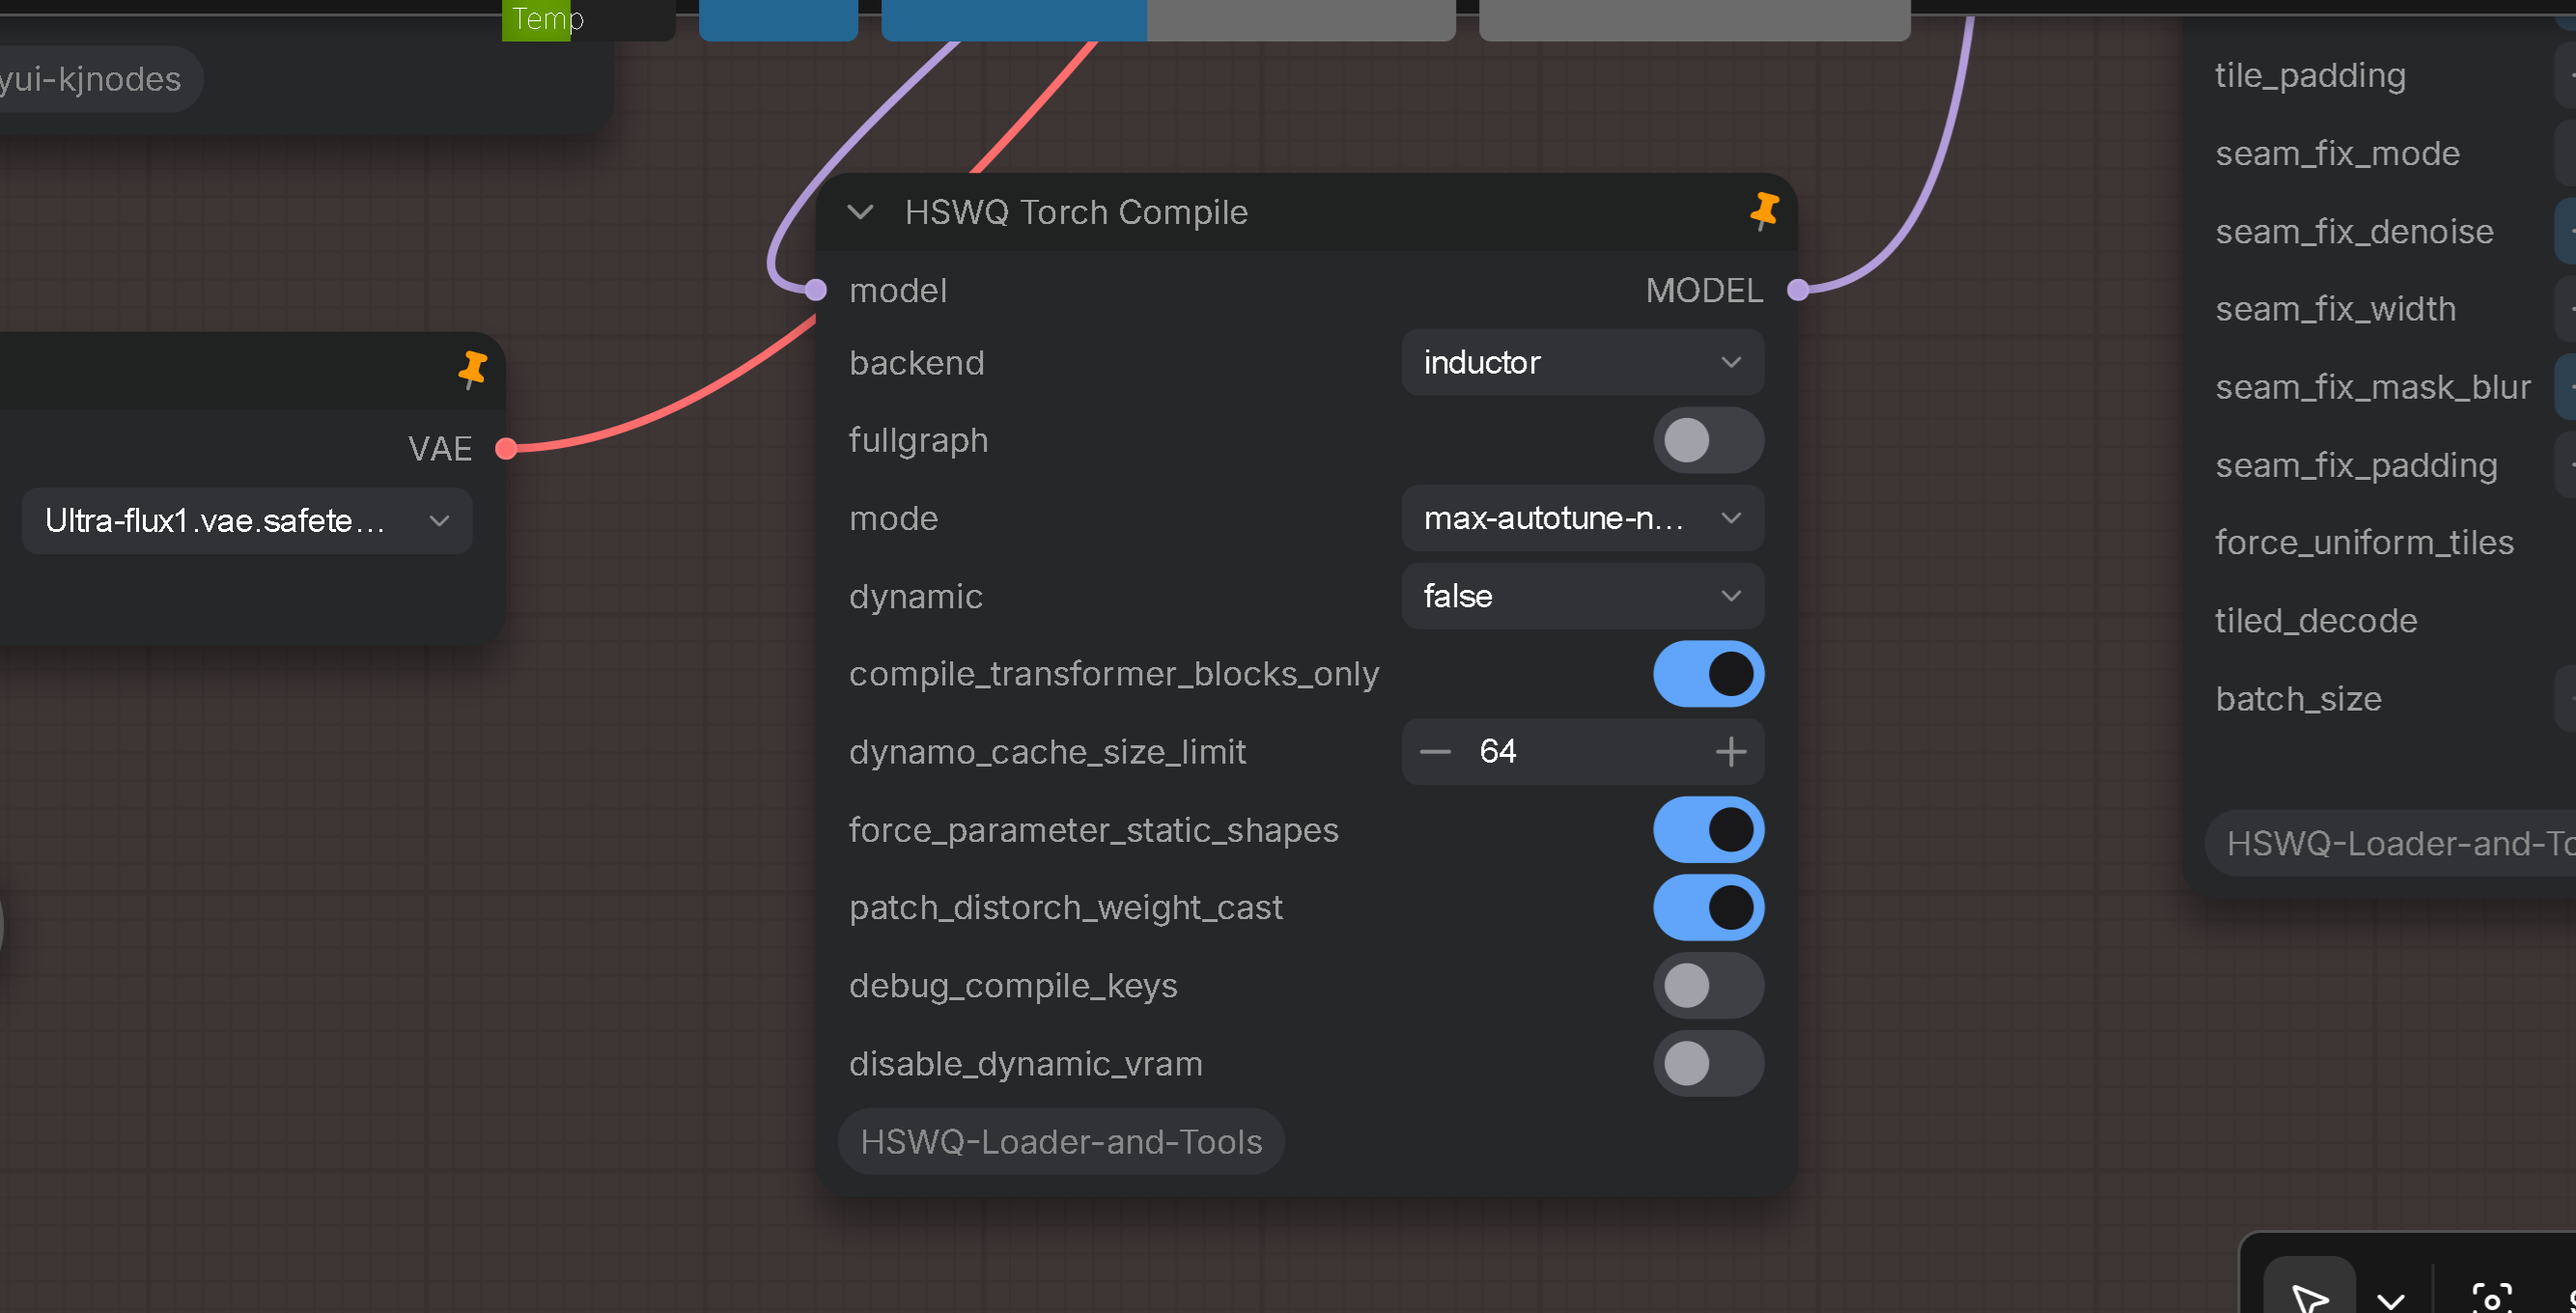
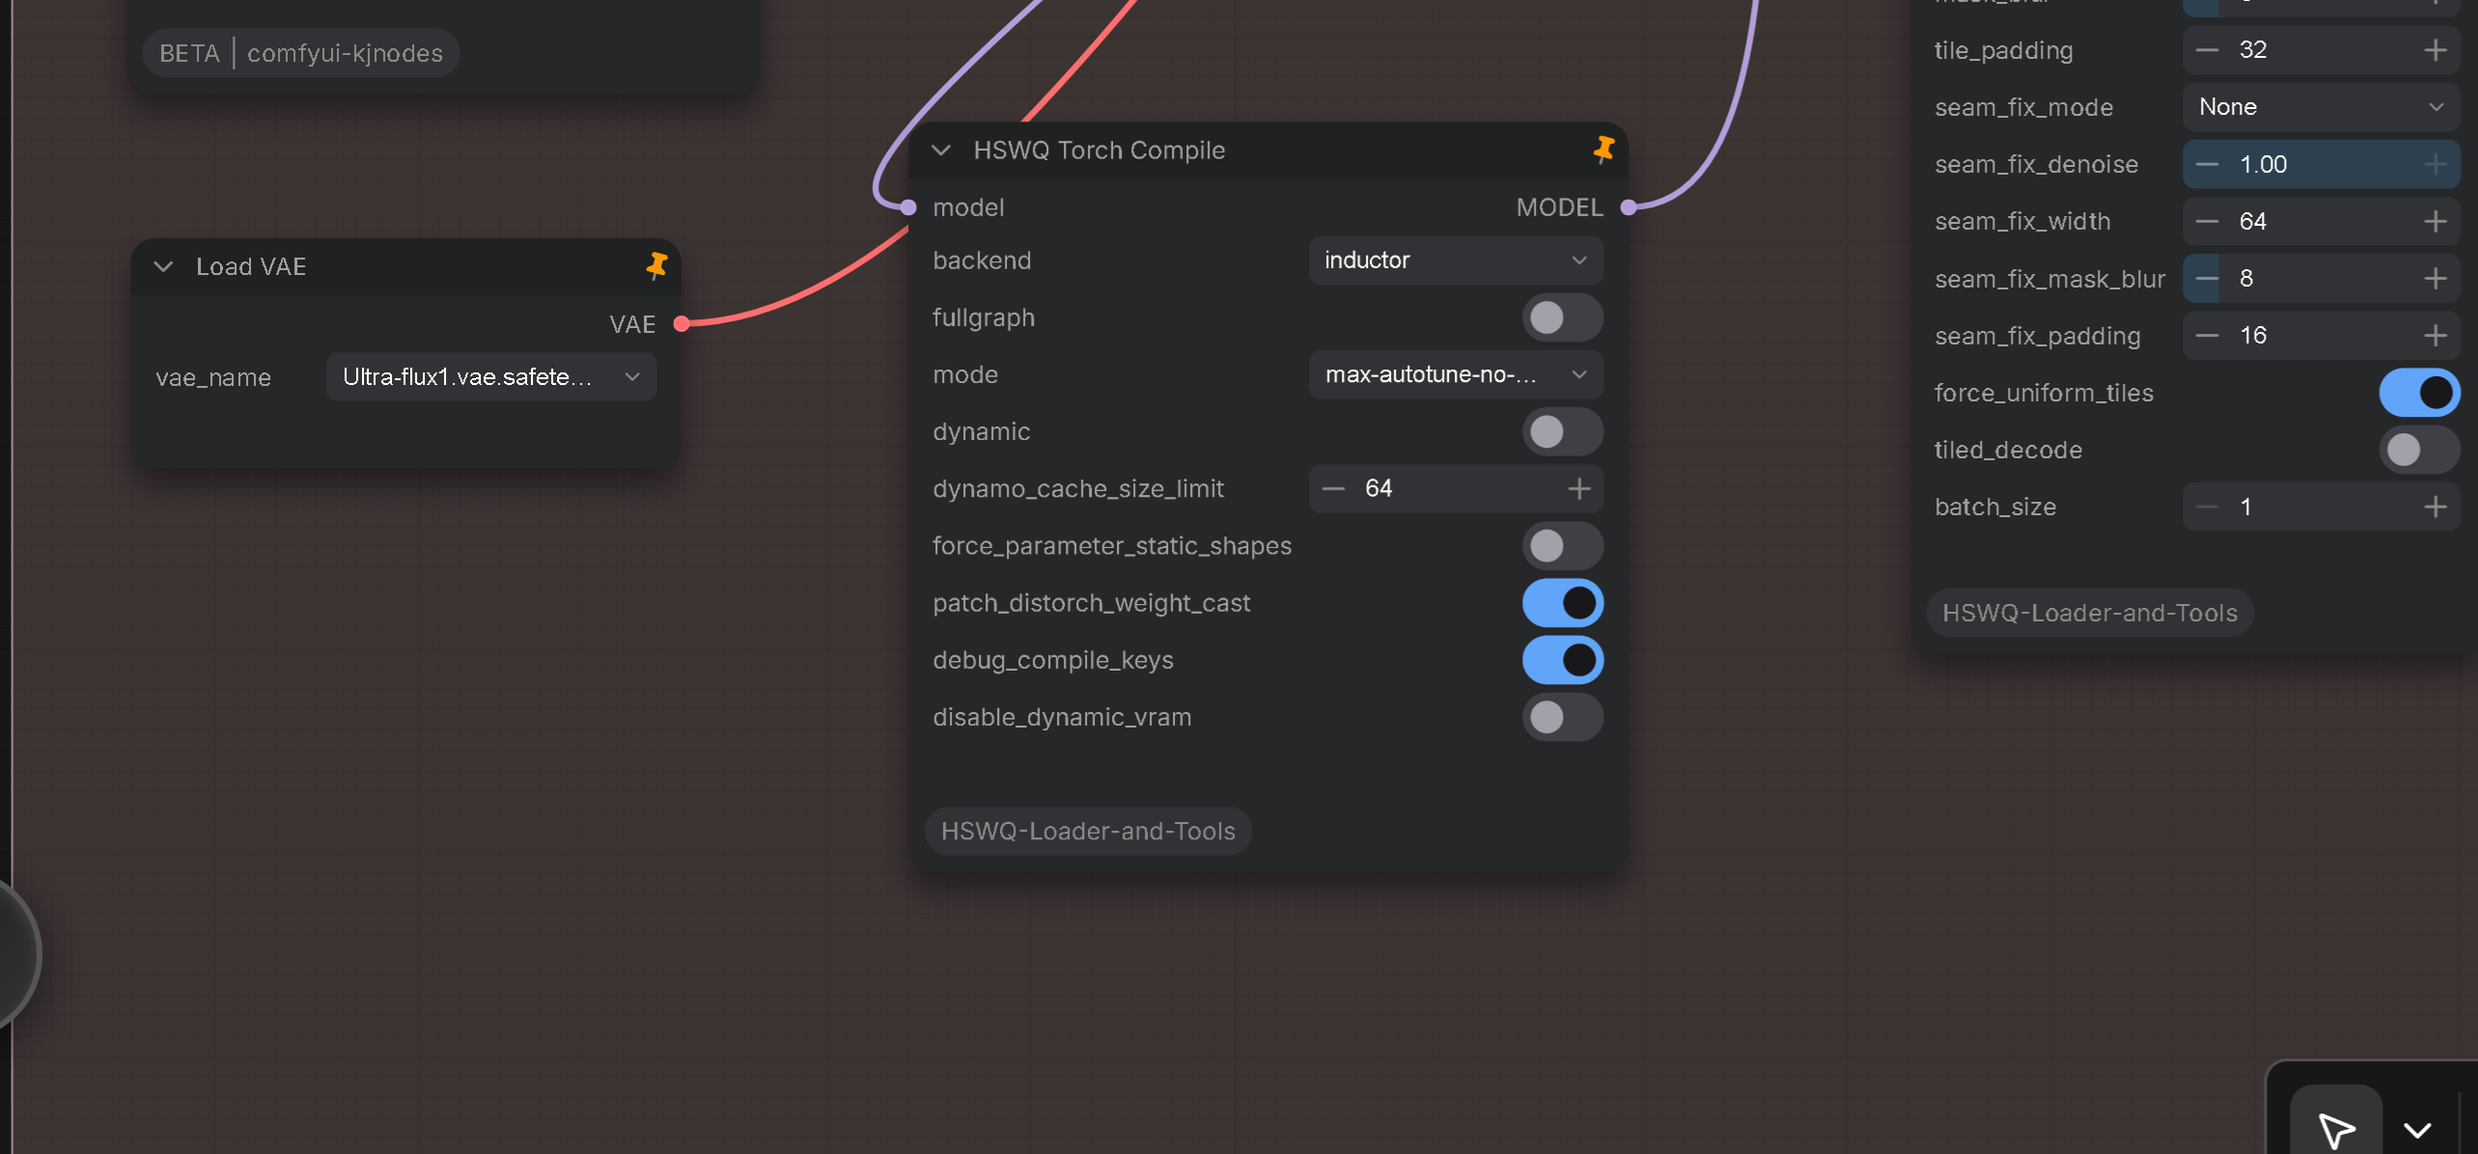
\ docs: refresh torchcompile screenshot and cache-bust README\

diff --git a/zhmd/README.md b/zhmd/README.md
@@ -223,7 +223,7 @@ GPL-3.0 基底与面向 HSWQ 兼容性的改良见上方来源说明（`nodes/hs
 
 ### HSWQ Torch Compile
 
-<img src="../png/torchcompile.png" alt="HSWQ Torch Compile" width="400">
+<img src="../png/torchcompile.png?v=2" alt="HSWQ Torch Compile" width="400">
 
 ComfyUI 节点，用 PyTorch `torch.compile` 包装已加载的 **MODEL**，面向 HSWQ 扩散路径（SDXL ConvRot INT8 / ConvRot NVFP4、Z Image / ZIT ConvRot NVFP4，以及相关的 USDU / Distorch 工作流）。
 

diff --git a/README.md b/README.md
@@ -223,7 +223,7 @@ In Forge, RES4LYF's `beta/__init__.py` dynamically generates wrapper functions c
 
 ### HSWQ Torch Compile
 
-<img src="png/torchcompile.png" alt="HSWQ Torch Compile" width="400">
+<img src="png/torchcompile.png?v=2" alt="HSWQ Torch Compile" width="400">
 
 ComfyUI node that wraps a loaded **MODEL** with PyTorch `torch.compile` for HSWQ diffusion paths (SDXL ConvRot INT8 / ConvRot NVFP4, Z Image / ZIT ConvRot NVFP4, and related USDU / Distorch workflows).
 
